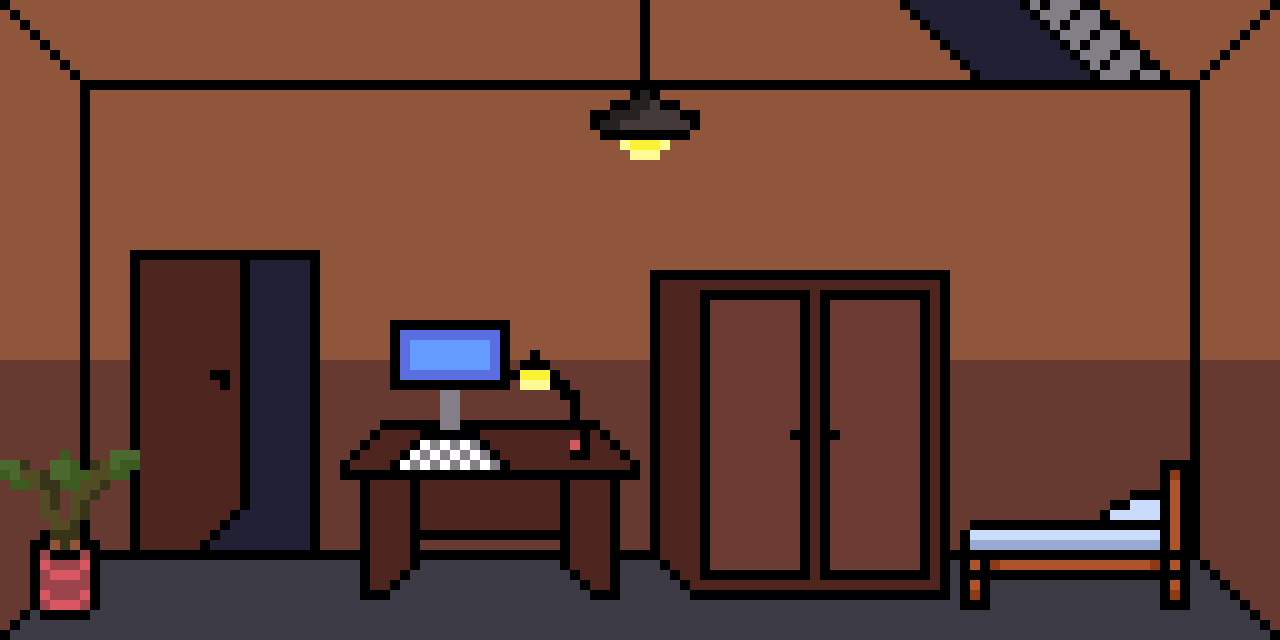
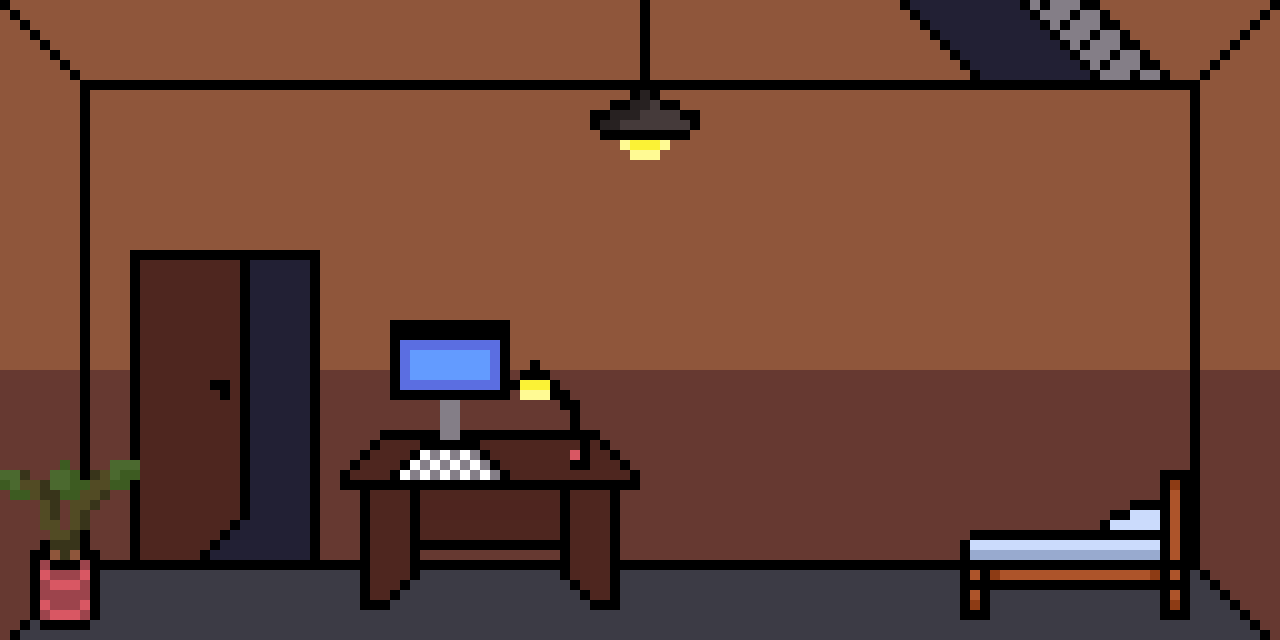
Closet click

diff --git a/src/api/src/game-implementation/rooms/StrangerRoom.ts b/src/api/src/game-implementation/rooms/StrangerRoom.ts
@@ -33,17 +33,17 @@ export class StrangerRoom extends Room {
     }
 
     public images(): string[] {
-        const playerSession: PlayerSession = gameService.getPlayerSession();
+        // const playerSession: PlayerSession = gameService.getPlayerSession();
         const result: string[] = ["strangerroom/StrangerRoomBackground"];
 
-        if (playerSession.wardrobeOpened) {
-            result.push("strangerroom/Strangeroom-opend");
+        // if (playerSession.wardrobeOpened) {
+        //     result.push("strangerroom/Strangeroom-opend");
 
-            // Sheets alleen toevoegen als ze nog niet zijn opgepakt
-            // if (!playerSession.pickedUpSheets) {
-            //     result.push("strangerroom/Sheets");
-            // }
-        }
+        //     // Sheets alleen toevoegen als ze nog niet zijn opgepakt
+        //     // if (!playerSession.pickedUpSheets) {
+        //     //     result.push("strangerroom/Sheets");
+        //     // }
+        // }
 
         return result;
     }
@@ -64,6 +64,26 @@ export class StrangerRoom extends Room {
         const result: ClickItem[] = [];
 
         // Voeg de sheets alleen toe als ze nog niet zijn opgepakt
+        if (playerSession.wardrobeOpened) {
+            result.push({
+                name: "Closet",
+                alias: "wardrobe",
+                imageUrl: "strangerroom/ClosetOpen",
+                type: ["actionableItemOpen"],
+                imageCoords: { x: 53, y: 46 },
+            });
+        }
+        if (!playerSession.wardrobeOpened) {
+            {
+                result.push({
+                    name: "Closet",
+                    alias: "wardrobe",
+                    imageUrl: "strangerroom/ClosetClosed",
+                    type: ["actionableItemOpen"],
+                    imageCoords: { x: 53, y: 46 },
+                });
+            }
+        }
         if (playerSession.wardrobeOpened && !playerSession.pickedUpSheets) {
             result.push({
                 name: "Sheets",
